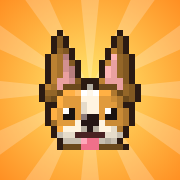
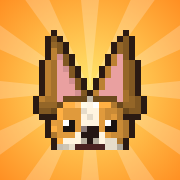
Four new enterable buildings, bolder breed differences and sizes, treat counters
- Pup Shop, Bark & Bean Cafe, Hall of Fame, Ranger's Cabin with NPCs and interactions
- Per-breed world size, exaggerated breed-accurate ears, head width, bulk, short legs, long coats
- Treat count on the home screen and beside the Dogdex button

Claude-Session: https://claude.ai/code/session_01UC9ARqZmDqxh1ms8ocxWV2

Changed region(s): [[0.1667, 0.1667, 0.8333, 0.8333]]

diff --git a/index.html b/index.html
@@ -207,7 +207,10 @@ BR.push(
 {id:'papillon',n:'Papillon',sz:0,c:'#f8f4ee',s:'#8a4a22',ec:'#8a4a22',e:'bat',t:'fluff',p:'eyepatch',f:1,z:['lawn'],h:'M',r:2,d:'Butterfly ears. Flutters when excited.'},
 {id:'mastiff',n:'Tibetan Mastiff',sz:2,c:'#3a2218',s:'#a8622a',e:'flop',t:'curl',p:'tan',f:1,z:['woods'],h:'D',r:3,d:'A lion in a dog suit. Seen deep in the woods by day.'});
 BR.push({id:'bulldog',n:'Bulldog',sz:1,c:'#f4ece0',s:'#c8843a',ec:'#c8843a',m:'#f4ece0',e:'fold',t:'stub',p:'eyepatch',flat:1,z:['lawn'],h:'D',r:1,d:'Naps hard. Snores harder.'});
-const ES={corgi:2,shep:2,kelpie:2,shiba:0,pom:0,samo:0,akita:0,westie:0,basset:2,cocker:2,cav:2,afghan:2,weim:2,vizsla:2,rott:0,newf:0,mastiff:0,sheep:0,pug:0,jack:0,staffy:0,grey:0,whippet:0,wolf:0,bulldog:0,husky:1,dingo:1};
+const ES={corgi:3,shep:3,kelpie:2,heeler:2,dingo:2,husky:1,westie:1,bullt:1,shiba:0,pom:0,samo:0,akita:0,basset:3,cocker:3,afghan:3,cav:2,poodle:2,beagle:2,dachs:1,cavoodle:1,maltese:1,vizsla:2,weim:2,rott:0,newf:0,mastiff:0,sheep:0,pug:0,jack:0,staffy:0,grey:0,whippet:0,wolf:0,bulldog:0,papillon:3,chi:2,french:2,dane:0};
+const HW={pug:1,french:1,bulldog:1,staffy:1,rott:1,mastiff:1,boxer:1,bernard:1,newf:1,grey:-1,whippet:-1,collie:-1,afghan:-1,dobe:-1,bullt:-1,vizsla:-1,weim:-1},BULK=new Set('bulldog pug rott mastiff bernard newf staffy french bern'.split(' ')),SHORT=new Set('corgi dachs basset bulldog pug french westie'.split(' ')),COAT=new Set('afghan maltese'.split(' '));
+const BS={chi:.72,pom:.78,papillon:.78,maltese:.82,dachs:.86,pug:.88,westie:.88,cav:.9,cavoodle:.9,jack:.9,french:.9,corgi:.95,lab:1.05,golden:1.05,boxer:1.05,dalm:1.05,husky:1.05,samo:1.05,shep:1.12,dobe:1.12,akita:1.12,grey:1.12,afghan:1.12,weim:1.1,sheep:1.1,rott:1.15,bern:1.2,newf:1.25,bernard:1.3,mastiff:1.3,dane:1.38,wolf:1.38};
+const bid=b=>b.id.replace('~','');
 const TP={},TPN={feisty:'Feisty',fast:'Speedy',sleepy:'Sleepy',friendly:'Friendly',shy:'Shy',calm:'Calm'};
 [['feisty','chi jack pom dachs westie papillon schnauzer'],['fast','kelpie collie grey whippet heeler aussie vizsla husky dalm weim'],['sleepy','bulldog french pug basset bernard newf dane mastiff sheep'],['friendly','lab golden cavoodle staffy cav cocker beagle boxer corgi mutt samo bern bullt'],['shy','shiba afghan dingo wolf akita']].forEach(([t,l])=>l.split(' ').forEach(id=>TP[id]=t));
 const TQ={feisty:{v:1.6,p0:.15,p1:.4,pc:.15},fast:{v:1.9,p0:.2,p1:.5,pc:.25},sleepy:{v:.5,p0:1.5,p1:2.6,pc:.6},friendly:{v:.9,p0:.8,p1:1.4,pc:.5},shy:{v:1.15,p0:.2,p1:.5,pc:.1,edge:1},calm:{v:1,p0:.35,p1:1,pc:.3}};
@@ -290,7 +293,7 @@ function hatSide(x,id,cx,T,hr){
 function dogFront(b,fr,o,happy){ // fr 0/1 tail wag, 2 blink
  const key=b.id+'F'+fr+(happy?1:0)+okey(o);if(SC[key])return SC[key];
  const c=mk(FW,FH),sz=b.sz,{B,S2,E,M,P,IN,SEP}=dogCols(b),cx=16,base=42,wag=fr===1?1:0,blink=fr===2,joy=fr===3,seed=hash(b.id);if(joy)happy=true;
- const rx=[6,7,8][sz],ry=[5,6,7][sz],brx=[5,6,7][sz]-(b.slim?1:0),bh=[10,13,16][sz]+(b.tall?3:0),top=base-bh,hy=top-ry+3,T=hy-ry,L=cx-rx;
+ const ID=bid(b),rx=[6,7,8][sz]+(HW[ID]||0),ry=[5,6,7][sz],brx=[5,6,7][sz]-(b.slim?1:0)+(BULK.has(ID)?1:0),bh=Math.max(8,[10,13,16][sz]+(b.tall?3:0)-(SHORT.has(ID)?2:0)),top=base-bh,hy=top-ry+3,T=hy-ry,L=cx-rx;
  const part=()=>mk(FW,FH);let p,x;
  // tail
  p=part();x=p.x;const tx=cx+brx,ty=base-5,TC=B;
@@ -315,6 +318,7 @@ function dogFront(b,fr,o,happy){ // fr 0/1 tail wag, 2 blink
  px(x,cx-lw,base-lh,lw,lh,LC);px(x,cx+1,base-lh,lw,lh,LC);px(x,cx-lw-1,base-2,lw+1,2,P);px(x,cx+1,base-2,lw+1,2,P);
  if(b.p==='tan')atop(p,x=>px(x,cx-lw-1,base-4,lw*2+3,4,S2));
  shadeC(p);px(x,cx-(lw>>1)-1,base-1,1,1,SEP);px(x,cx+1+(lw>>1),base-1,1,1,SEP);comp(c,p,SEP);
+ if(COAT.has(ID)){p=part();x=p.x;px(x,cx-brx-1,base-lh-1,brx*2+3,lh+1,B);for(let i=0;i<brx*2+3;i+=2)px(x,cx-brx-1+i,base-lh+1,1,lh-1,'rgba(0,0,0,.12)');fuzz(p,seed+9,.4);shadeC(p);comp(c,p,SEP)}
  // collar / neckwear
  x=c.x;const yc=hy+ry+1,nk=o&&o.neck,cl=cx-brx+2,cw=brx*2-3;
  if(nk==='bandana'||nk==='bandanab'){const K2=NECKC[nk];px(x,cl-1,yc,cw+2,2,K2);for(let i=0;i<4;i++)px(x,cx-3+i,yc+2+i,7-2*i,1,i===3?shade(K2,.75):K2);px(x,cx-1,yc+2,1,1,'#fff');px(x,cx+1,yc+3,1,1,'#fff');px(x,cl-1,yc,cw+2,1,shade(K2,1.25))}
@@ -324,11 +328,11 @@ function dogFront(b,fr,o,happy){ // fr 0/1 tail wag, 2 blink
  // ears
  const earL=(x,t)=>{
   const es=earSz(b);
-  if(t==='point'){const ph=[3,5,8][es];tri(x,L+1,T-ph,L-1,L+3+es,T+2,E);tri(x,L+2,T-ph+3,L+1,L+2+es,T+2,IN)}
-  else if(t==='bat'){tri(x,L,T-8,L-2,L+5,T+2,E);px(x,L-2,T-2,2,4,E);tri(x,L+1,T-5,L,L+4,T+2,IN)}
+  if(t==='point'){const ph=[3,5,8,10][es],ol=es>2?2:1;tri(x,L+1-(es>2?1:0),T-ph,L-ol,L+3+es,T+2,E);tri(x,L+2-(es>2?1:0),T-ph+3,L+1,L+2+es,T+2,IN)}
+  else if(t==='bat'){if(es>2){tri(x,L-1,T-9,L-5,L+5,T+3,E);px(x,L-5,T-1,3,5,E);tri(x,L,T-6,L-3,L+4,T+3,IN);px(x,L-5,T+3,2,2,E);px(x,L-6,T+1,1,3,shade(E,.8))}else{tri(x,L,T-8,L-2,L+5,T+2,E);px(x,L-2,T-2,2,4,E);tri(x,L+1,T-5,L,L+4,T+2,IN)}}
   else if(t==='fold'){if(es===0){px(x,L,T-1,4,3,E);px(x,L-1,T+1,4,1,shade(E,.8));px(x,L-1,T+2,2,1,shade(E,.8))}else{px(x,L,T-2,5,4,E);px(x,L-1,T-1,2,3,E);px(x,L-1,T+2,5,1,shade(E,.8));px(x,L-1,T+3,4,1,shade(E,.8));px(x,L-1,T+4,2,1,shade(E,.8))}}
-  else if(t==='flop'){px(x,L-1,T+1,4,3,E);ell(x,L-1,hy+es,es===2?3:2,ry-2+es*2,E)}
-  else if(t==='long'){px(x,L-2,T+1,5,3,E);ell(x,L-2,hy+3+es,es===2?3:2,ry+1+es*2,E);if(b.t==='pom')ell(x,L-2,hy+ry+4,3,3,E)}
+  else if(t==='flop'){px(x,L-1,T+1,4,3,E);ell(x,L-1,hy+es,es>=2?3:2,ry-2+es*2,E)}
+  else if(t==='long'){px(x,L-2,T+1,5,3,E);ell(x,L-2-(es>2?1:0),hy+3+es,es>=2?3:2,ry+1+es*2,E);if(es>2)px(x,L-4,hy+ry+5,5,2,shade(E,.85));if(b.t==='pom')ell(x,L-2,hy+ry+4,3,3,E)}
   else if(t==='crop'){tri(x,L+2,T-8,L+1,L+4,T+2,E);px(x,L+2,T-4,1,5,IN)}};
  const isF=t=>t==='flop'||t==='long',tl=b.e==='mix'?'point':b.e,trr=b.e==='mix'?'fold':b.e;
  const ears=front=>{const q=part();let any=false;
@@ -366,9 +370,9 @@ const GAIT={nf:[[0,0],[2,0],[0,0],[-2,0],[0,1]],ff:[[0,0],[-2,0],[0,1],[2,0],[0,
 function dogSide(b,fr,o,tongue){ // fr 0 stand, 1-4 walk cycle
  const key=b.id+'S'+fr+(tongue?1:0)+okey(o);if(SC[key])return SC[key];
  const c=mk(SW,SH),sz=b.sz,{B,S2,D,E,M,P,IN,SEP}=dogCols(b),base=38,bob=(fr===2||fr===4)?1:0,wag=fr&1,seed=hash(b.id);
- const L=[13,16,19][sz]+(b.long?5:0),h=[5,7,8][sz]-(b.slim?1:0),lg=(b.long?2:[3,5,7][sz])+(b.slim?1:0)+(b.tall?2:0),lw=2;
+ const ID=bid(b),L=[13,16,19][sz]+(b.long?5:0),h=[5,7,8][sz]-(b.slim?1:0)+(BULK.has(ID)?1:0),lg=Math.max(2,(b.long?2:[3,5,7][sz])+(b.slim?1:0)+(b.tall?2:0)-(SHORT.has(ID)&&!b.long?1:0)),lw=2;
  const bx=10,by=base-lg-h-bob,rr=[3,4,4][sz],cr=[3,4,5][sz],ryR=h>>1,ryC=(h>>1)+1;
- const hr=[4,5,5][sz],hry=[3,4,4][sz],hcx=bx+L+(sz?2:1),hcy=by-(sz?3:2)-(b.tall?1:0)-(b.slim?1:0),T=hcy-hry,sl=b.flat?2:[3,4,5][sz];
+ const hr=[4,5,5][sz],hry=[3,4,4][sz],hcx=bx+L+(sz?2:1),hcy=by-(sz?3:2)-(b.tall?1:0)-(b.slim?1:0),T=hcy-hry,sl=(b.flat?2:[3,4,5][sz])+((HW[ID]||0)<0?1:0);
  const part=()=>mk(SW,SH);let p,x;
  // tail
  p=part();x=p.x;const TC=B;
@@ -395,6 +399,7 @@ function dogSide(b,fr,o,tongue){ // fr 0 stand, 1-4 walk cycle
  p=part();x=p.x;hleg(x,hx,GAIT.nb,LC,P,1);fleg(x,fx,GAIT.nf,LC,P,1);
  if(b.p==='tan')atop(p,x=>px(x,0,base-Math.max(2,lg>>1),SW,lg,S2));
  shadeC(p);comp(c,p,SEP);
+ if(COAT.has(ID)){p=part();x=p.x;px(x,bx+1,by+h-2,L-2,lg+1,B);for(let i=0;i<L-2;i+=2)px(x,bx+1+i,by+h,1,lg-1,'rgba(0,0,0,.12)');fuzz(p,seed+9,.4);shadeC(p);comp(c,p,SEP)}
  // neck + head
  p=part();x=p.x;const n0x=bx+L-cr-2,n0y=by+2,nn=Math.max(1,n0y-hcy);
  for(let i=0;i<=nn;i++){const t=i/nn;px(x,Math.round(lerp(n0x,hcx-hr+1,t)),n0y-i,Math.round(lerp(cr+3,hr+2,t)),1,B)}
@@ -413,10 +418,10 @@ function dogSide(b,fr,o,tongue){ // fr 0 stand, 1-4 walk cycle
  comp(c,p,SEP);
  // ear
  p=part();x=p.x;const e=b.e==='mix'?'point':b.e,fl=bob,ex=hcx-hr,es=earSz(b);
- if(e==='flop'){px(x,ex,T+1,4,2,E);ell(x,ex+1,hcy+1+es-fl,2,Math.max(2,hry-1+es+(sz?1:0)),E)}
- else if(e==='long'){px(x,ex,T+1,4,2,E);ell(x,ex+1,hcy+2+es-fl,es===2?3:2,hry+es*2,E);if(b.t==='pom')ell(x,ex+1,hcy+hry+4-fl,3,3,E)}
- else if(e==='point'){tri(x,hcx-2,T-[2,4,7][es],ex,hcx-1,T+1,E);px(x,hcx-2,T-1,1,2,IN)}
- else if(e==='bat'){tri(x,hcx-3,T-6,ex-1,hcx-1,T+1,E);tri(x,hcx-3,T-3,hcx-3,hcx-2,T+1,IN)}
+ if(e==='flop'){px(x,ex,T+1,4,2,E);ell(x,ex+1,hcy+1+es-fl,es>=2?3:2,Math.max(2,hry-1+es+(sz?1:0)),E)}
+ else if(e==='long'){px(x,ex,T+1,4,2,E);ell(x,ex+1,hcy+2+es-fl,es>=2?3:2,hry+es*2,E);if(b.t==='pom')ell(x,ex+1,hcy+hry+4-fl,3,3,E)}
+ else if(e==='point'){tri(x,hcx-2,T-[2,4,7,9][es],ex-(es>2?1:0),hcx-1+(es>2?1:0),T+1,E);px(x,hcx-2,T-1,1,2,IN)}
+ else if(e==='bat'){tri(x,hcx-3,T-(es>2?9:6),ex-1-(es>2?2:0),hcx-1,T+1,E);tri(x,hcx-3,T-3,hcx-3,hcx-2,T+1,IN)}
  else if(e==='fold'){px(x,ex,T-1,4,3,E);px(x,ex+2,T+2,3,1,shade(E,.8));px(x,ex+3,T+3,2,1,shade(E,.8))}
  else if(e==='crop'){tri(x,hcx-2,T-6,hcx-3,hcx-1,T+1,E)}
  if(b.f)fuzz(p,seed+3,.3);shadeC(p);comp(c,p,SEP);
@@ -480,7 +485,7 @@ function playerSpr(dir,fr){ // dir 0 down 1 up 2 side(right); fr 0 stand 1/2 ste
 /* ================= world ================= */
 const map=new Uint8Array(MW*MH),solid=new Uint8Array(MW*MH),reach=new Uint8Array(MW*MH),fence=new Uint8Array(MW*MH);
 const objs=[],lamps=[],decor=[],reachList=[];let ground;
-const BASE=['#4aa63c','#e6b64c','#3e9fd8','#d8c8a2','#3c8c38','#58b446','#b9803e'],HOUSE={x:1000,y:736},beds=[];
+const BASE=['#4aa63c','#e6b64c','#3e9fd8','#d8c8a2','#3c8c38','#58b446','#b9803e'],HOUSE={x:1000,y:736},beds=[],BLD=[{id:'kennel',k:'house',tx:60,ty:42},{id:'shop',k:'shop',tx:30,ty:42},{id:'cafe',k:'cafe',tx:62,ty:19},{id:'hall',k:'hall',tx:34,ty:67},{id:'cabin',k:'cabin',tx:30,ty:19}];
 const I=(x,y)=>y*MW+x;
 function zoneAt(tx,ty){return tx<38&&ty<38?'woods':tx>=56&&ty<40?'pond':tx>=56&&ty>=56?'sand':tx<40&&ty>=56?'meadow':'lawn'}
 const SPR={};
@@ -530,6 +535,12 @@ function mkSprites(){
  px(x,37,50,15,30,'#5e3618');px(x,38,51,13,29,'#8a5a2a');px(x,40,54,9,8,'#9ad8ff');px(x,44,54,1,8,'#5e3618');px(x,48,66,2,2,'#f4d03f');
  for(const wx of[14,60]){px(x,wx-1,49,16,15,'#f4ead8');px(x,wx,50,14,13,'#9ad8ff');px(x,wx+6,50,2,13,'#f4ead8');px(x,wx,56,14,1,'#f4ead8');px(x,wx-2,64,18,2,'#b9753a');px(x,wx,65,3,3,'#e84a6a');px(x,wx+6,65,3,3,'#f2c230');px(x,wx+11,65,3,3,'#e86aa8')}
  px(x,35,41,19,8,'#f4ead8');px(x,43,45,4,3,'#8a5a2a');px(x,42,43,2,2,'#8a5a2a');px(x,45,42,2,2,'#8a5a2a');px(x,48,43,2,2,'#8a5a2a');SPR.house=outline(c);
+ {const recol=(map,icon)=>{const c=mk(88,85),x=c.x;x.drawImage(SPR.house,0,0);const im=x.getImageData(0,0,88,85),a=im.data;for(let i=0;i<a.length;i+=4){if(!a[i+3])continue;const m=map['#'+((1<<24)|(a[i]<<16)|(a[i+1]<<8)|a[i+2]).toString(16).slice(1)];if(m){const n=parseInt(m.slice(1),16);a[i]=n>>16;a[i+1]=n>>8&255;a[i+2]=n&255}}x.putImageData(im,0,0);px(x,36,42,17,6,'#f4ead8');icon(x);return c};
+ const R=(a,b,c2,d,e,w1,w2)=>({'#c8442a':a,'#8a2a1a':b,'#a83622':c2,'#e8684a':d,'#7a2a18':e,'#d9a25a':w1,'#b9803e':w2});
+ SPR.shop=recol(R('#3a6fd8','#1f3f8a','#2a56b0','#6a9af0','#1a3270','#f0e2c0','#d4c096'),x=>{px(x,41,44,7,2,'#b9753a');px(x,40,43,2,4,'#b9753a');px(x,47,43,2,4,'#b9753a')});
+ SPR.cafe=recol(R('#2a9a8a','#1a6a5e','#22806f','#5ac8b4','#145248','#f6d8de','#e2b4c0'),x=>{px(x,41,44,6,4,'#8a5a2a');px(x,47,45,2,2,'#8a5a2a');px(x,42,43,4,1,'#b9753a')});
+ SPR.hall=recol(R('#8a4fd8','#5a2a9a','#6f3cba','#b08af0','#44207a','#d4d8e0','#aab0bc'),x=>{px(x,44,42,1,6,'#e8a818');px(x,41,44,7,2,'#e8a818');px(x,42,43,5,4,'#f4c020')});
+ SPR.cabin=recol(R('#2f7d32','#1a4f1e','#256a2a','#5cbc48','#143c18','#8a5a2a','#5e3618'),x=>{tri(x,44,42,41,47,46,'#2f7d32');px(x,44,47,1,1,'#7a4a24')})}
  c=mk(14,12);x=c.x;ell(x,7,7,5,3,'#7a4a24');ell(x,7,5,5,2,'#d9a868');ell(x,7,5,2,1,'#b9803e');SPR.stump=outline(c);
  c=mk(34,40);x=c.x;px(x,16,14,2,24,'#f4f4f4');ell(x,17,11,15,9,'#e84a4a');x.clearRect(0,13,34,10);px(x,16,14,2,24,'#f4f4f4');for(let i=0;i<34;i+=8)for(let j=0;j<12;j++){const a=x.getImageData(i+2,j,1,1).data;if(a[3]){}}px(x,7,3,4,10,'#fff4f0');px(x,15,2,4,11,'#fff4f0');px(x,23,3,4,10,'#fff4f0');px(x,16,0,2,2,'#f2c230');SPR.umbrella=outline(c);
  c=mk(34,22);x=c.x;px(x,4,3,26,6,'#d99a52');px(x,4,3,26,1,'#f0c07a');px(x,6,9,2,10,'#7a4a24');px(x,26,9,2,10,'#7a4a24');px(x,0,13,34,3,'#b9753a');px(x,0,13,34,1,'#d99a52');px(x,2,16,2,5,'#7a4a24');px(x,30,16,2,5,'#7a4a24');SPR.table=outline(c);
@@ -547,7 +558,7 @@ function mkSprites(){
  SPR.iHearts=pm(['.rr.rr...','rRrrrr...','rrrrrr...','.rrrr.pp.p','..rr.pPppp','.....pppp','......pp.'].map(r=>r.padEnd(10,'.')),{r:'#e84a6a',R:'#ffb0c0',p:'#ff8ab0',P:'#ffd0e0'});
  SPR.iHat=pm(['..kkkkk..','..kKkkk..','..kKkkk..','..rrrrr..','kkkkkkkkk'],{k:'#2a2a32',K:'#5a5a66',r:'#d83a3a'});
  SPR.iBook=pm(['rrrrrrrr.','rRRRRRRrw','rRRppRRrw','rRpRRpRrw','rRRppRRrw','rRRRRRRrw','rrrrrrrrw','.wwwwwwww'],{r:'#b83a3a',R:'#e05a4a',p:'#fff4d8',w:'#f4ead8'});
- ['bench','lamp','rock','bush','table','sign','bin','stump','tunnel','house','hurdle','fountain'].forEach(k=>inSh(SPR[k]));
+ ['bench','lamp','rock','bush','table','sign','bin','stump','tunnel','house','shop','cafe','hall','cabin','hurdle','fountain'].forEach(k=>inSh(SPR[k]));
  c=mk(30,34);x=c.x;disc(x,7,29,3,'#3a3a44');disc(x,22,29,3,'#3a3a44');px(x,7,29,1,1,'#b4bac4');px(x,22,29,1,1,'#b4bac4');px(x,3,16,24,11,'#f8f4ec');px(x,3,22,24,2,'#f08ab8');px(x,3,25,24,2,'#d8d2c4');px(x,3,10,1,6,'#8a8f98');px(x,26,10,1,6,'#8a8f98');
  for(let i=0;i<7;i++)px(x,1+i*4,4,4,6,i%2?'#fff4f0':'#e84a4a');px(x,1,9,28,1,'#b83a3a');tri(x,14,13,12,16,17,'#e8c05a');disc(x,14,12,2,'#ffb4d4');SPR.cart=inSh(outline(c));
  c=mk(38,28);x=c.x;tri(x,19,2,2,36,26,'#e8843a');tri(x,19,2,2,19,26,'#f0a05a');tri(x,19,10,14,24,26,'#4a2208');px(x,18,2,2,4,'#7a4a24');px(x,2,26,35,1,'#b85a1a');SPR.tent=outline(c);
@@ -576,9 +587,7 @@ function genWorld(){
  [[23,23],[74,23],[23,74],[74,74],[41,41],[54,41],[41,54],[54,54]].forEach(([x,y])=>{put('lamp',x,y);lamps.push([x*16+8,y*16-12])});
  [[44,39],[50,39],[44,56],[50,56],[66,23],[60,27],[30,70],[20,74]].forEach(([x,y])=>put('bench',x,y,0,2));
  [[22,66],[27,66],[32,66],[27,62]].forEach(([x,y])=>put('hurdle',x,y,0,2));
- for(let y=42;y<=45;y++)for(let x=60;x<=64;x++){solid[I(x,y)]=1;occ[I(x,y)]=1}
- for(let y=39;y<=41;y++)for(let x=59;x<=65;x++)occ[I(x,y)]=1;
- rect(61,46,63,46,1);objs.push({k:'house',x:HOUSE.x,y:HOUSE.y-1});
+ for(const b of BLD){for(let y=b.ty;y<b.ty+4;y++)for(let x=b.tx;x<b.tx+5;x++){solid[I(x,y)]=1;occ[I(x,y)]=1}for(let y=b.ty-3;y<b.ty;y++)for(let x=b.tx-1;x<b.tx+6;x++)occ[I(x,y)]=1;rect(b.tx+1,b.ty+4,b.tx+3,b.ty+4,1);for(let x=b.tx-1;x<b.tx+6;x++)occ[I(x,b.ty+4)]=1;b.x=(b.tx+2)*16+8;b.y=(b.ty+4)*16;objs.push({k:b.k,x:b.x,y:b.y-1})}
  rect(73,24,79,25,1);for(let y=12;y<=23;y++)for(let x=78;x<=79;x++)map[I(x,y)]=map[I(x,y)]===2?6:1;
  [[37,40],[56,40],[56,54],[37,54]].forEach(([x,y])=>{for(let j=0;j<2;j++)for(let i=0;i<3;i++){solid[I(x+i,y+j)]=1;occ[I(x+i,y+j)]=1}beds.push([x,y])});
  [[49,23],[49,74],[23,49],[74,49]].forEach(([x,y])=>put('sign',x,y));
@@ -718,7 +727,7 @@ const stars=n=>'★'.repeat(n)+'☆'.repeat(3-n);
 const hearts=d=>{const n=Math.min(5,(d.bond||0)/2|0);return'♥'.repeat(n)+'<span style="color:#d9b98a">'+'♥'.repeat(5-n)+'</span>'};
 const TD=[];
 function titleInit(){TD.length=0;const ids=Object.keys(S.dogs);for(let i=0;i<5;i++){const id=ids[i]||pick(BR).id;TD.push({b:S.dogs[id]?BV(id):BY[id],o:S.dogs[id]||null,x:i*97+R()*30,v:30+i*7,l:i})}
- $('#tsub').textContent=S.started?`${S.player.name?'Welcome back, '+S.player.name+'! · ':''}Dogdex ${count()}/${BR.length}`:''}
+ $('#tsub').textContent=S.started?`${S.player.name?'Welcome back, '+S.player.name+'! · ':''}Dogdex ${count()}/${BR.length} · ${S.treats} treats`:''}
 function drawTitle(){drawScene(0,1);const gy=gY(),sp=(vh-gy-22)/3;for(const d of TD){if(d.l>3)continue;const X=((d.x+G.time*d.v)%(vw+110))-55,Y=gy+16+(d.l%4)*sp*.9;shadow(X,Y,9);spr(dogSide(d.b,1+((G.time*d.v/5|0)%4),d.o,1),X,Y,1.25)}}
 $('#playB').addEventListener('click',()=>{audioInit();sfx.jingle();G.fromTitle=false;setState('world');if(!S.started)charEdit();else{const gf=dayCheck();if(gf)questPanel(gf)}});
 $('#charB').addEventListener('click',()=>{audioInit();sfx.blip();G.fromTitle=true;charEdit()});
@@ -740,7 +749,7 @@ function settings(){openPanel(`<button class="xb" data-a="menu" aria-label="Clos
  <div class="two"><button class="btn alt" data-a="music">Music: ${S.music?'on':'off'}</button><button class="btn alt" data-a="sound">Sounds: ${S.sound?'on':'off'}</button></div>
  <button class="btn alt" data-a="how">How to play</button>
  <button class="btn lock sm" data-a="reset" data-v="0">Erase save</button>`)}
-function how(){openPanel(`<h2>How to play</h2><p style="text-align:left">• Drag anywhere to walk (or arrow keys).<br>• Walk into the red-roofed cottage by the plaza to visit your pups. Tap any dog of yours to pat, praise or play.<br>• Level your dogs up with pats, treats and games to unlock tricks. Your buddy digs up treasure as you walk and gives you a perk.<br>• Check Daily quests in the clock menu, and spend treats on outfits and kennel decorations.<br>• Progress saves automatically on this device.<br>• Walk up to a dog and tap it, or tap the camera button.<br>• In camera mode, tap when the dog is inside the frame. Dead centre = 3 stars. You get 3 shots.<br>• Different dogs hang out in different parts of the park, and at different real-world times: morning, daytime, evening and night.<br>• Tap the book (top left) for your Dogdex and the clock (top right) for settings. Dress your dogs up, play mini games to earn treats, and pick a buddy to walk with you.</p><button class="btn" data-a="settings">Back</button>`)}
+function how(){openPanel(`<h2>How to play</h2><p style="text-align:left">• Drag anywhere to walk (or arrow keys).<br>• Walk into buildings: your kennel (red roof), the Pup Shop (blue), the café (teal, by the pond), the Hall of Fame (purple, south) and the Ranger's Cabin (green, in the woods).<br>• In your kennel, Tap any dog of yours to pat, praise or play.<br>• Level your dogs up with pats, treats and games to unlock tricks. Your buddy digs up treasure as you walk and gives you a perk.<br>• Check Daily quests in the clock menu, and spend treats on outfits and kennel decorations.<br>• Progress saves automatically on this device.<br>• Walk up to a dog and tap it, or tap the camera button.<br>• In camera mode, tap when the dog is inside the frame. Dead centre = 3 stars. You get 3 shots.<br>• Different dogs hang out in different parts of the park, and at different real-world times: morning, daytime, evening and night.<br>• Tap the book (top left) for your Dogdex and the clock (top right) for settings. Dress your dogs up, play mini games to earn treats, and pick a buddy to walk with you.</p><button class="btn" data-a="settings">Back</button>`)}
 function dex(){let h=`<h2>Dogdex ${count()}/${BR.length}</h2><div class="grid">`;
  for(const b of BR){const d=S.dogs[b.id];
   h+=d?`<button class="cell" style="border-color:${RAR[b.r][1]}" data-a="dog" data-v="${b.id}">${im(dogFront(BV(b.id),0,d,true),2)}<br>${d.shiny?'✦ ':''}${esc(d.name)}<i>${b.n}</i></button>`
@@ -776,6 +785,8 @@ const ACT={
  dbuy(v){const[cat,id]=v.split(':'),hs=S.home,own=S.hown,key=cat==='it'?id:cat+id,cost=cat==='it'?DECO.it.find(i=>i[0]===id)[2]:DECO[cat][+id][1];let bought=false;
   if(cost&&!own.includes(key)){if(S.treats<cost){sfx.buzz();toast(`You need ${cost-S.treats} more treats.`);return}S.treats-=cost;own.push(key);bought=true;sfx.coin()}
   if(cat==='it'){const i=hs.it.indexOf(id);if(i<0)hs.it.push(id);else if(!bought)hs.it.splice(i,1)}else hs[cat]=+id;buildHome();save();deco()},
+ sbuy(v){const o=OUTFITS.find(q=>q.id===v);if(S.owned.includes(v))return;if(S.treats<o.cost){sfx.buzz();toast(`You need ${o.cost-S.treats} more treats.`);return}S.treats-=o.cost;S.owned.push(v);save();sfx.coin();shopPanel()},
+ pupround(){const ids=Object.keys(S.dogs);if(!ids.length){toast('You have no dogs yet!');return}if(S.treats<25){sfx.buzz();toast(`You need ${25-S.treats} more treats.`);return}S.treats-=25;ids.forEach(id=>addBond(id,1));sfx.jingle();closePanel();toast('Slurp! Every dog gained 1 bond.',2600)},
  menu,settings,close:closePanel,dex,how,hint,dog:dogPage,dress,playm:playMenu,char:charEdit,
  chardone(){PS={};const first=!S.started,pn=$('#pn');if(pn)S.player.name=pn.value.trim().slice(0,12);if(G.fromTitle){G.fromTitle=false;if(S.started)save();closePanel();titleInit();return}S.started=true;save();dayCheck();closePanel();setState('world');if(first)toast('Drag anywhere to walk. Go find a dog!',4500)},
  cyc(v){const[k,d]=v.split(':'),n=CY.find(c=>c[0]===k)[2];S.player[k]=(S.player[k]+ +d+n)%n;save();charEdit()},
@@ -805,12 +816,67 @@ petEl.addEventListener('click',ev=>{const t=ev.target.closest('[data-p]');if(!t|
  else if(k==='play'){closePet();playMenu(id)}else if(k==='dress'){closePet();dress(id)}});
 let ACTI=['',''];
 function setNear(n,pt){if(n===G.near&&pt===G.nearPet)return;G.near=n;G.nearPet=pt;actB.classList.toggle('on',!!(n||pt));actB.innerHTML=ACTI[n?0:1]}
-actB.addEventListener('click',()=>{audioInit();if(G.state!=='world'||G.paused)return;if(G.near)startEncounter(G.near);else if(G.nearPet)openPet(G.nearPet,G.nearPet.id)});
+actB.addEventListener('click',()=>{audioInit();if(G.state!=='world'||G.paused)return;if(G.near)startEncounter(G.near);else if(G.nearPet){if(G.nearPet.act){sfx.blip();G.nearPet.act()}else openPet(G.nearPet,G.nearPet.id)}});
 const whose=()=>S.player.name?S.player.name+"'s":'Your';
 function digDone(){const id=S.buddy,d=S.dogs[id];if(!d)return;const r=R();let msg;const un=OUTFITS.filter(o=>!S.owned.includes(o.id)&&o.cost<=60);
  if(r<.1&&un.length){const o=pick(un);S.owned.push(o.id);msg=`a ${o.n}! (new outfit)`;sfx.jingle()}else{const n=r<.28?25+(R()*20|0):5+(R()*11|0);S.treats+=n;msg=`${n} treats!`;sfx.coin()}
  emote(BUD,r<.1?'iSpark':'bone');BUD.st='sit';FP.push({x:BUD.x+BUD.dir*8,y:BUD.y,t:25,l:25,k:9});toast(`${d.name} dug up ${msg}`,2800);S.digs=(S.digs||0)+1;save();Q('dig')}
-function enterHome(){G.ret=[HOUSE.x,HOUSE.y+12];G.scene='home';closePet();keysClear();P.vx=P.vy=0;const W=HOME.w*16,H=HOME.h*16;P.x=W/2;P.y=H-14;P.dir=1;
+function npcSpr(app){const sp=S.player,ps=PS;S.player=app;PS={};const c=playerSpr(0,0);S.player=sp;PS=ps;return c}
+function roomBase(w,h,F,WL,wins){const W=w*16,H=h*16,c=mk(W,H),x=c.x;
+ for(let ty=0;ty<h;ty++)for(let tx=0;tx<w;tx++){const X=tx*16,Y=ty*16;px(x,X,Y,16,16,(tx+ty)%2?F[0]:F[1]);px(x,X,Y+15,16,1,F[2]);px(x,X+((ty%2)*8+3),Y,1,15,F[3])}
+ px(x,0,0,W,30,WL[0]);for(let i=0;i<W;i+=12)px(x,i,0,1,22,WL[1]);px(x,0,22,W,8,WL[2]);px(x,0,30,W,3,'#7a4a24');px(x,0,33,W,3,'rgba(0,0,0,.16)');
+ for(const wx of wins){px(x,wx-1,3,34,18,'#7a4a24');px(x,wx,4,32,16,'#9ad8ff');px(x,wx+15,4,2,16,'#f4ead8');px(x,wx,11,32,2,'#f4ead8');px(x,wx+2,6,5,2,'#fff')}
+ px(x,W/2-13,H-14,26,9,'#8a6a3a');px(x,W/2-11,H-12,22,5,'#a8864a');px(x,0,H-4,W,4,'#5e3618');px(x,W/2-10,H-4,20,4,'#2a1a10');px(x,0,0,3,H,'#7a4a24');px(x,W-3,0,3,H,'#7a4a24');return c}
+const tableAt=(x,X,Y)=>{ell(x,X,Y+9,9,3,'rgba(0,0,0,.18)');px(x,X-1,Y,2,9,'#7a4a24');ell(x,X,Y-1,10,5,'#b9753a');ell(x,X,Y-2,10,5,'#e8c08a');px(x,X-3,Y-4,3,3,'#fff');px(x,X+2,Y-3,3,2,'#f08ab8')};
+const ROOMS={
+ shop:{name:'Pup Shop',w:14,h:10,win:[16],build(){const W=224,c=roomBase(14,10,DECO.floor[2][2],DECO.wall[1][2],[16]),x=c.x;
+  for(let i=0;i<3;i++){const sx=64+i*50;px(x,sx,16,40,2,'#7a4a24');px(x,sx,6,40,2,'#7a4a24');for(let j=0;j<4;j++){px(x,sx+3+j*9,10,6,6,['#e84a6a','#3a6fd8','#f4c020','#3aa655','#8a4fd8','#f08a2a'][(i*4+j)%6]);px(x,sx+4+j*9,1,5,5,['#2a2a32','#a8703a','#e86aa8','#3ac2c2'][(i+j)%4])}}
+  px(x,W-78,62,62,16,'#b9753a');px(x,W-78,62,62,4,'#e8b06a');px(x,W-78,76,62,2,'#7a4a24');px(x,W-34,54,12,9,'#3a3f4a');px(x,W-32,56,8,4,'#9ad8ff');px(x,W-70,56,8,7,'#f8eedc');px(x,W-58,57,6,6,'#e84a6a');
+  for(let i=0;i<2;i++){const rx=14,ry=70+i*34;px(x,rx,ry,34,3,'#8a8f98');px(x,rx+2,ry+3,2,14,'#8a8f98');px(x,rx+30,ry+3,2,14,'#8a8f98');for(let j=0;j<5;j++)tri(x,rx+5+j*6,ry+12,rx+3+j*6,rx+7+j*6,ry+3,['#d83a3a','#3a6fd8','#3aa655','#f2c230','#e86aa8'][(j+i*2)%5])}
+  ell(x,W/2-6,112,34,14,'#2a5aa8');ell(x,W/2-6,112,28,10,'#e8f0f8');x.drawImage(SPR.bone,W/2-11,109);
+  this.ground=c},sol:[[146,56,62,22],[14,68,34,18],[14,102,34,18]],fore:[[146,60,62,18]],
+  get npcs(){return this._n||(this._n=[{npc:true,x:182,y:66,c:npcSpr({skin:2,hair:3,hairC:4,beard:0,shirt:2,pants:1})}])},
+  spots:[{x:182,y:90,h:46,act(){shopPanel()}}]},
+ cafe:{name:'Bark & Bean Café',w:14,h:10,win:[150],build(){const W=224,c=roomBase(14,10,DECO.floor[1][2],DECO.wall[2][2],[150]),x=c.x;
+  px(x,10,60,70,16,'#8a5a34');px(x,10,60,70,4,'#c89a6a');px(x,10,74,70,2,'#5e3618');px(x,14,48,26,12,'#bfe8ff');px(x,14,48,26,2,'#f4f4f4');px(x,17,53,6,5,'#f08ab8');px(x,25,53,6,5,'#f8eedc');px(x,33,54,5,4,'#8a5a2a');px(x,62,50,10,10,'#3a3f4a');px(x,64,52,6,3,'#e84a4a');
+  px(x,14,6,60,12,'#2a2a32');for(let i=0;i<4;i++)px(x,18,8+i*2+ (i>1?1:0),30+((i*13)%20),1,'#f4f4f4');
+  for(const[a,b]of[[130,84],[178,112],[100,124]]){tableAt(x,a,b);for(const d of[-15,15]){px(x,a+d-3,b+2,6,5,'#d83a3a');px(x,a+d-3,b-3,6,5,'#b82a2a')}}
+  px(x,196,44,12,10,'#b5622a');for(const[a,b]of[[202,30],[197,34],[207,34],[202,38]])ell(x,a,b,3,5,'#3aa655');
+  this.ground=c},sol:[[10,54,70,24],[122,80,16,10],[170,108,16,10],[92,120,16,10]],fore:[[10,60,70,18]],
+  get npcs(){return this._n||(this._n=[{npc:true,x:52,y:64,c:npcSpr({skin:0,hair:1,hairC:3,beard:0,shirt:8,pants:2})},{npc:true,x:154,y:92,c:npcSpr({skin:3,hair:0,hairC:0,beard:1,shirt:5,pants:0})},{npc:true,x:76,y:132,c:npcSpr({skin:1,hair:4,hairC:1,beard:0,shirt:3,pants:4})}])},
+  spots:[{x:52,y:90,h:46,act(){cafePanel()}},{x:154,y:92,r:24,act(){say('Regular','Best flat white in the park. My kelpie drags me here every arvo.')}},{x:76,y:132,r:24,act(){say('Dog walker','Heard the night dogs are the rare ones. The woods after 9pm, they reckon.')}}]},
+ hall:{name:'Hall of Fame',w:16,h:10,win:[20,204],build(){const W=256,c=roomBase(16,10,DECO.floor[2][2],DECO.wall[0][2],[20,204]),x=c.x;
+  px(x,W/2-12,34,24,122,'#b83a3a');px(x,W/2-12,34,2,122,'#e8c46a');px(x,W/2+10,34,2,122,'#e8c46a');
+  px(x,74,3,108,19,'#5e3618');px(x,76,5,104,15,'#2a2a32');for(let i=0;i<4;i++)px(x,82,8+i*3,60+((i*17)%30),1,'#f4f4f4');px(x,160,7,14,10,'#f4c020');
+  for(const[a,b,k]of[[40,70,0],[40,112,1],[216,70,2],[216,112,0]]){px(x,a-8,b,16,12,'#c8ced8');px(x,a-9,b-2,18,3,'#e4e8f0');px(x,a-8,b+10,16,2,'#8a909a');px(x,a-3,b-10,6,6,['#f4c020','#c8ccd4','#c8843a'][k]);px(x,a-1,b-4,2,2,'#c89a1a');px(x,a-5,b-9,2,3,['#f4c020','#c8ccd4','#c8843a'][k]);px(x,a+3,b-9,2,3,['#f4c020','#c8ccd4','#c8843a'][k])}
+  px(x,W/2-12,44,24,12,'#8a8f98');px(x,W/2-14,42,28,3,'#b4bac4');x.drawImage(SPR.statue,0,0,26,28,W/2-13,16,26,28);
+  this.ground=c},sol:[[32,68,16,14],[32,110,16,14],[208,68,16,14],[208,110,16,14],[114,36,28,22]],npcs:[],
+  spots:[{x:128,y:68,h:52,act(){ACT.bali()}},{x:92,y:46,r:30,h:44,act(){hallPanel()}}]},
+ cabin:{name:"Ranger's Cabin",w:12,h:9,win:[140],fire:[40,30],build(){const W=192,H=144,c=roomBase(12,9,DECO.floor[1][2],['#8a5a34','#6a4424','#5e3618'],[140]),x=c.x;
+  px(x,22,2,36,30,'#8a8f98');px(x,24,4,32,26,'#6a6f78');px(x,28,10,24,20,'#1a120c');px(x,20,0,40,3,'#b4bac4');for(let i=0;i<6;i++)px(x,24+((i*11)%30),4+((i*7)%8),4,2,'#9aa0aa');px(x,32,27,16,3,'#5e3618');
+  px(x,76,4,40,16,'#e8d8a8');px(x,78,6,36,12,'#d8c890');px(x,84,9,8,5,'#4aa63c');px(x,98,8,10,6,'#3e9fd8');px(x,92,14,3,2,'#d83a3a');
+  px(x,W-50,42,38,22,'#7a4a24');px(x,W-48,44,34,18,'#d83a3a');px(x,W-48,44,34,4,'#f4f4f4');px(x,W-46,45,10,6,'#f8f4ec');for(let i=0;i<5;i++)px(x,W-48+i*7,50,3,12,'#b82a2a');
+  px(x,10,40,14,34,'#5e3618');for(let i=0;i<3;i++){px(x,11,43+i*10,12,7,'#3a2414');for(let j=0;j<4;j++)px(x,12+j*3,44+i*10,2,6,['#d83a3a','#3a6fd8','#3aa655','#f2c230'][(i+j)%4])}
+  ell(x,W/2,H/2+22,30,12,'#8a5a2a');ell(x,W/2,H/2+22,26,9,'#a8703a');ell(x,W/2-22,H/2+16,6,5,'#8a5a2a');
+  px(x,14,H-36,22,14,'#8a5a2a');px(x,14,H-36,22,5,'#a8703a');px(x,14,H-32,22,1,'#3a2414');px(x,23,H-33,4,4,'#f4c020');px(x,13,H-37,24,1,'#5e3618');
+  this.ground=c},sol:[[10,40,14,36],[142,40,38,26],[14,108,22,16]],
+  get npcs(){return this._n||(this._n=[{npc:true,x:70,y:62,c:npcSpr({skin:1,hair:4,hairC:5,beard:1,shirt:2,pants:1})}])},
+  spots:[{x:70,y:62,r:26,act(){rangerPanel()}},{x:25,y:128,r:22,h:30,act(){chestPanel()}}]}};
+function say(who,t){openPanel(`<button class="xb" data-a="close" aria-label="Close">X</button><h2>${who}</h2><p>"${t}"</p>`)}
+function shopPanel(){let h=`<button class="xb" data-a="close" aria-label="Close">X</button><h2>Pup Shop</h2><p>"G'day! Everything a good dog needs."</p><div class="tr">${bone()} ${S.treats} treats</div>`;
+ for(const sl of['hat','neck','eyes']){h+=`<h3>${{hat:'Head',neck:'Neck',eyes:'Eyes'}[sl]}</h3><div class="row">`;for(const o of OUTFITS)if(o.slot===sl){const own=S.owned.includes(o.id);h+=`<button class="btn sm ${own?'on':'lock'}" data-a="sbuy" data-v="${o.id}">${o.n}${own?' ✓':' · '+o.cost}</button>`}h+='</div>'}
+ openPanel(h+`<p style="font-size:11px">Outfits you own can be worn by any of your dogs (tap a dog, then Dress).</p><button class="btn alt" data-a="deco">Kennel furniture</button>`)}
+function cafePanel(){const free=S.cafe!==today();if(free){S.cafe=today();S.treats+=8;save();sfx.coin()}
+ openPanel(`<button class="xb" data-a="close" aria-label="Close">X</button><h2>Bark & Bean Café</h2><p>${free?'"First pupcake of the day is on the house!"<br><b>+8 treats</b>':'"You\'ve had today\'s free pupcake. Come back tomorrow!"'}</p><div class="tr">${bone()} ${S.treats} treats</div><button class="btn" data-a="pupround">Puppuccinos all round · 25<br><small>Every dog you own gains 1 bond</small></button>`)}
+function hallPanel(){const ds=Object.values(S.dogs),b=S.best||{};openPanel(`<button class="xb" data-a="close" aria-label="Close">X</button><h2>Hall of Fame</h2><p style="text-align:left;line-height:1.6">Breeds caught: <b>${count()}/${BR.length}</b><br>Three-star photos: <b>${ds.filter(d=>d.stars===3).length}</b><br>Shiny dogs: <b>${ds.filter(d=>d.shiny).length}</b><br>Highest dog level: <b>${ds.length?Math.max(...ds.map(lvl)):0}</b><br>Treasures dug up: <b>${S.digs||0}</b><br>Login streak: <b>${S.streak||1} day${(S.streak||1)>1?'s':''}</b><br>Blown away by Bali: <b>${S.bali||0}</b><br>Best Treat Catch: <b>${b.catch||0}</b><br>Best Park Dash: <b>${b.hop||0}</b><br>Best Fetch: <b>${b.fetch||0}</b></p>`)}
+function rangerPanel(){const un=BR.filter(b=>!S.dogs[b.id]),b=un.length?pick(un):null;say('Ranger',(b?`Looking for a ${b.n}? I've seen one around ${b.z.map(z=>ZNAME[z]).join(' and ')} in the ${b.h.split('').map(c=>PNAME[c]).join(' or ')}.`:"You've found every breed in the park. Legend!")+' As for Bali… nobody gets near that one. Believe me, I have tried.')}
+function chestPanel(){if(S.chest){say('Old chest','Empty. Just a few biscuit crumbs left.');return}S.chest=1;S.treats+=100;save();sfx.jingle();say('Old chest',"The ranger's secret stash! +100 treats")}
+function enterRoom(id){const b=BLD.find(q=>q.id===id);G.ret=[b.x,b.y+12];G.scene='home';G.room=id;closePet();keysClear();P.vx=P.vy=0;
+ if(id==='kennel'){Object.assign(HOME,{w:18,h:12,ground:HOME.kg,win:[40,216],sol:[],fore:[],npcs:[],spots:[],fire:null});kennelFill()}
+ else{const r=ROOMS[id];if(!r.ground)r.build();Object.assign(HOME,{w:r.w,h:r.h,ground:r.ground,win:r.win,sol:r.sol,fore:r.fore||[],npcs:r.npcs,spots:r.spots,fire:r.fire||null,dogs:[]});sfx.pop();toast(r.name,2200)}
+ P.x=HOME.w*8;P.y=HOME.h*16-14;P.dir=1}
+function enterHome(){enterRoom('kennel')}
+function kennelFill(){const W=HOME.w*16,H=HOME.h*16;
  HOME.dogs=Object.keys(S.dogs).filter(id=>BY[id]).map(id=>({id,b:BY[id],o:S.dogs[id],owned:true,shiny:!!S.dogs[id].shiny,v:S.dogs[id].v||1,x:24+R()*(W-48),y:58+R()*(H-84),st:'sit',t:R()*3,dir:R()<.5?1:-1,seed:R()*10,hop:0,joy:0}));
  sfx.pop();const n=HOME.dogs.length;toast(n?`${whose()} Kennel · ${n} pup${n>1?'s':''}. Tap one to pat it!`:`${whose()} Kennel. Catch a dog and it will live here!`,3600)}
 function exitHome(){G.scene='park';closePet();keysClear();setNear(null,null);P.x=G.ret[0];P.y=G.ret[1];P.dir=0;P.vx=P.vy=0;G.cam.fx=undefined;sfx.pop()}
@@ -822,7 +888,7 @@ function updClock(){const d=new Date(),h=hourNow(),per=period(h);let hh=HO!==nul
  if(per==='N'){disc(x,6,6,4,'#f4f0d0');disc(x,8,5,3,'#f6d79b');px(x,1,2,1,1,'#fff')}
  else{disc(x,6,6,3,per==='D'?'#f8c820':'#f08a2a');[[6,0],[6,11],[0,6],[11,6],[2,2],[10,2],[2,10],[10,10]].forEach(([a,b])=>px(x,a,b,1,1,'#f08a2a'))}
  if(G.per&&G.per!==per&&G.state==='world'){toast({M:'Good morning! The early dogs are out.',D:'The park is filling up for the day.',E:'Evening walkies. New dogs are arriving.',N:'Night falls. Something is howling in the woods…'}[per],4000);for(const dg of dogs)dg.life=R()*25}
- const dn=$('#dexN');if(dn)dn.textContent=count()+'/'+BR.length;
+ const dn=$('#dexN');if(dn){dn.textContent=count()+'/'+BR.length;$('#trN').textContent=S.treats}
  G.per=per}
 
 /* ================= encounters & photo ================= */
@@ -966,7 +1032,7 @@ cv.addEventListener('pointermove',e=>{const p=pos(e);if(G.state==='mini'&&MINI){
 const pup=e=>{if(e.pointerId!==ptr.id)return;const p=pos(e);if(!ptr.drag&&performance.now()-ptr.t<400)tapWorld(p.x,p.y);ptr.id=null};
 cv.addEventListener('pointerup',e=>{if(G.state==='mini'&&MINI)MINI.up();pup(e)});cv.addEventListener('pointercancel',e=>{if(e.pointerId===ptr.id)ptr.id=null});
 function tapWorld(x,y){
- if(G.scene==='home'){const wx=x-G.hox,wy=y-G.hoy;let best=null,bd=99;for(const d of HOME.dogs){const dd=Math.hypot(wx-d.x,wy-(d.y-10));if(dd<22&&dd<bd){bd=dd;best=d}}if(best)openPet(best,best.id);return}
+ if(G.scene==='home'){const wx=x-G.hox,wy=y-G.hoy;let best=null,bd=99;for(const d of HOME.dogs){const dd=Math.hypot(wx-d.x,wy-(d.y-10));if(dd<22&&dd<bd){bd=dd;best=d}}if(best)openPet(best,best.id);else for(const sp of HOME.spots)if(Math.hypot(wx-sp.x,wy-(sp.y-10))<24&&Math.hypot(P.x-sp.x,P.y-sp.y)<50){sfx.blip();sp.act();break}return}
  const wx=x+G.cam.x,wy=y+G.cam.y;
  for(const d of dogs)if(!d.leave&&Math.abs(wx-d.x)<14&&wy>d.y-30&&wy<d.y+6&&Math.hypot(d.x-P.x,d.y-P.y)<40)return startEncounter(d);
  if(BUD.on&&S.buddy&&Math.abs(wx-BUD.x)<14&&wy>BUD.y-30&&wy<BUD.y+6)openPet(BUD,S.buddy)}
@@ -986,10 +1052,10 @@ addEventListener('resize',resize);addEventListener('orientationchange',()=>setTi
 
 /* ================= update ================= */
 let saveT=0,fpD=0,fpS=1,FP=[];
-const dsc=v=>Math.max(.5,sn(.72*(v||1)));
+const dsc=(v,b)=>Math.max(.45,sn(.72*(v||1)*((b&&BS[bid(b)])||1)));
 const PARKOK=(x,y)=>!solidAt(x,y-2)&&reach[I(x>>4,y>>4)]===1;
-const HOME={w:18,h:12,ground:null,dogs:[]};
-HOME.blk=(x,y)=>{const W=HOME.w*16,H=HOME.h*16;return x<9||x>W-9||y<42||(y>H-5&&(Math.abs(x-W/2)>8||y>H+3))};
+const HOME={w:18,h:12,ground:null,dogs:[],npcs:[],spots:[],sol:[],fore:[],win:[40,216],fire:null};
+HOME.blk=(x,y)=>{const W=HOME.w*16,H=HOME.h*16;return x<9||x>W-9||y<42||(y>H-5&&(Math.abs(x-W/2)>8||y>H+3))||HOME.sol.some(r=>x>r[0]-4&&x<r[0]+r[2]+4&&y>r[1]&&y<r[1]+r[3]+5)};
 HOME.ok=(x,y)=>x>14&&x<HOME.w*16-14&&y>50&&y<HOME.h*16-12;
 function movePlayer(dt,blk){let mx=0,my=0;
  if(keys.arrowleft||keys.a)mx--;if(keys.arrowright||keys.d)mx++;if(keys.arrowup||keys.w)my--;if(keys.arrowdown||keys.s)my++;
@@ -1008,6 +1074,7 @@ function updateHome(dt){const W=HOME.w*16,H=HOME.h*16;movePlayer(dt,HOME.blk);
  if(P.y>H-4&&Math.abs(P.x-W/2)<10&&P.my>.3)return exitHome();
  let np=null,nd=28;for(const d of HOME.dogs){emoTick(d,dt);const dx=P.x-d.x,dy=P.y-d.y,dist=Math.hypot(dx,dy);
   if(dist<26||(G.pet&&G.pet.e===d)){d.st='sit';d.near=true;d.dir=dx>0?1:-1;if(dist<nd){nd=dist;np=d}}else{d.near=false;wander(d,dt,HOME.ok,d.b.sz===0?26:20)}}
+ if(!np)for(const sp of HOME.spots)if(Math.hypot(P.x-sp.x,P.y-sp.y)<(sp.r||30)){np=sp;break}
  setNear(null,np);if(G.pet&&Math.hypot(G.pet.e.x-P.x,G.pet.e.y-P.y)>70)closePet()}
 function update(dt){G.time+=dt;G.dt=dt;
  if(G.state==='mini'){miniUpdate(dt);return}
@@ -1019,7 +1086,7 @@ function update(dt){G.time+=dt;G.dt=dt;
  const spd=movePlayer(dt,blocked);
  if(P.moving){fpD+=spd*dt;if(fpD>7){fpD=0;fpS=-fpS;const t=map[I(P.x>>4,P.y>>4)],life=[2.2,9,0,1,3,2.6,1.4][t];if(life)FP.push({x:P.x-P.vy/spd*2.5*fpS,y:P.y-1+P.vx/spd*1.5*fpS,t:life,l:life,k:t})}}
  for(const f of FP)f.t-=dt;if(FP.length&&(FP[0].t<=0||FP.length>200))FP=FP.filter(f=>f.t>0).slice(-200);
- if(P.my<-.3&&P.y<HOUSE.y+10&&Math.abs(P.x-HOUSE.x)<8)return enterHome();
+ if(P.my<-.3)for(const b of BLD)if(P.y<b.y+10&&P.y>b.y-6&&Math.abs(P.x-b.x)<8)return enterRoom(b.id);
  const z=zoneAt(P.x>>4,P.y>>4);if(z!==G.zone){if(G.zone)toast('~ '+ZNAME[z].replace(/^the /,'The ')+' ~',1800);G.zone=z}
  let near=null,nd=30;
  for(const d of dogs){d.life-=dt;d.hop=Math.max(0,d.hop-dt);const dx=P.x-d.x,dy=P.y-d.y,dist=Math.hypot(dx,dy),on=Math.abs(dx)<vw/2+20&&Math.abs(dy)<vh/2+30;
@@ -1086,7 +1153,7 @@ function iris(x,y,k){const r=Math.max(vw,vh)*k;g.fillStyle='#000';g.beginPath();
 function dogSpr(e){const b=e.shiny?SHV(e.b):e.b,o=e.owned?e.o:null,act=e.near||e.happy>0||e.joy>0;
  if(e.st==='walk'||e.st==='dig')return{c:dogSide(b,1+(((G.time*(e.fast||e.st==='dig'?14:8)+(e.seed||0))|0)%4),o,e.fast||e.owned?1:0),flip:e.dir<0};
  const tt=G.time+(e.seed||0);if(e.sleep&&!act)return{c:dogFront(b,2,o,false),flip:false};return{c:dogFront(b,e.joy>0?3:act?(G.time*6&1):(tt%4<.15?2:tt%3<.3?1:0),o,!!(act||e.owned)),flip:false}}
-function drawDogEnt(e,x,y){const sc=dsc(e.v),tr=e.trick;let s=dogSpr(e),hop=e.hop>0?Math.abs(Math.sin(e.hop*12))*4:0;
+function drawDogEnt(e,x,y){const sc=dsc(e.v,e.b),tr=e.trick;let s=dogSpr(e),hop=e.hop>0?Math.abs(Math.sin(e.hop*12))*4:0;
  if(tr){const q=1-tr.t/tr.d,b=e.shiny?SHV(e.b):e.b,o=e.owned?e.o:null;
   if(tr.k==='spin'){const f=(q*8|0)%4;s=f%2?{c:dogSide(b,1,o,1),flip:f===3}:{c:dogFront(b,f?3:0,o,true),flip:false}}
   else if(tr.k==='jump'){hop=Math.sin(q*3.14)*16;s={c:dogFront(b,3,o,true),flip:false}}
@@ -1106,7 +1173,7 @@ function tornado(x,y){const t=G.time;px(g,sn(x-9),sn(y-1),18,3,'rgba(0,0,0,.2)')
  for(let i=0;i<8;i++){const a=t*7+i*.8,r=6+i*2.2;px(g,sn(x+Math.cos(a)*r),sn(y-4-i*4+Math.sin(a*1.3)*2),2,2,['#7a4630','#f8f2ea','#c8824a','#4aa63c'][i%4])}
  for(let i=0;i<5;i++){const a=t*11+i*1.3;px(g,sn(x+Math.cos(a)*11),sn(y-1+Math.sin(a)*2),2,1,'#d8c8a2')}}
 function drawJoy(){if(ptr.id!==null&&ptr.drag&&G.state==='world'){g.strokeStyle='rgba(255,255,255,.5)';g.lineWidth=1;g.beginPath();g.arc(ptr.sx,ptr.sy,14,0,6.283);g.stroke();g.fillStyle='rgba(255,255,255,.55)';const dx=ptr.x-ptr.sx,dy=ptr.y-ptr.sy,m=Math.max(1,Math.hypot(dx,dy)),k=Math.min(14,m)/m;g.beginPath();g.arc(ptr.sx+dx*k,ptr.sy+dy*k,5,0,6.283);g.fill()}}
-const headTop=e=>([27,32,37][e.b.sz]+(e.b.tall?3:0))*dsc(e.v);
+const headTop=e=>([27,32,37][e.b.sz]+(e.b.tall?3:0))*dsc(e.v,e.b);
 function buildHome(){const W=HOME.w*16,H=HOME.h*16,c=mk(W,H),x=c.x,hs=S.home||(S.home={wall:0,floor:0,rug:0,it:[]}),F=DECO.floor[hs.floor][2],WL=DECO.wall[hs.wall][2],RG=DECO.rug[hs.rug][2],it=hs.it;
  for(let ty=0;ty<HOME.h;ty++)for(let tx=0;tx<HOME.w;tx++){const X=tx*16,Y=ty*16;px(x,X,Y,16,16,(tx+ty)%2?F[0]:F[1]);px(x,X,Y+15,16,1,F[2]);px(x,X+((ty%2)*8+3),Y,1,15,F[3])}
  px(x,0,0,W,30,WL[0]);for(let i=0;i<W;i+=12)px(x,i,0,1,22,WL[1]);px(x,0,22,W,8,WL[2]);px(x,0,22,W,1,'#d99a52');px(x,0,30,W,3,'#7a4a24');px(x,0,33,W,3,'rgba(0,0,0,.16)');
@@ -1125,21 +1192,24 @@ function buildHome(){const W=HOME.w*16,H=HOME.h*16,c=mk(W,H),x=c.x,hs=S.home||(S
  if(it.includes('toybox')){const bx=W-34,by=H-70;px(x,bx,by,24,14,'#3a8ad8');px(x,bx,by,24,3,'#5aaaf0');px(x,bx+10,by+5,4,3,'#f4d03f');disc(x,bx+5,by-2,3,'#e84a4a');disc(x,bx+13,by-3,3,'#c8e63a');px(x,bx+17,by-4,5,3,'#f8eedc')}
  if(it.includes('lamp')){const lx=W-14,ly=46;x.fillStyle='rgba(255,230,150,.16)';x.beginPath();x.arc(lx+1,ly+10,36,0,7);x.fill();px(x,lx,ly,2,26,'#3a3f4a');px(x,lx-3,ly+26,8,2,'#3a3f4a');px(x,lx-5,ly-8,12,9,'#ffe9a0');px(x,lx-4,ly-9,10,1,'#f2c230')}
  if(it.includes('ballpit')){const cx2=W-96,cy2=H-36;ell(x,cx2,cy2,26,13,'#3a6fd8');ell(x,cx2,cy2-1,22,10,'#2a4a98');const r=rng(4);for(let i=0;i<28;i++){const a=r()*6.28,d=r();disc(x,cx2+Math.cos(a)*d*19|0,cy2-1+Math.sin(a)*d*8|0,2,['#e84a4a','#f2c230','#3aa655','#e86aa8','#3ac2c2'][i%5])}}
- HOME.ground=c}
+ HOME.kg=c;if(G.room==='kennel'||!G.room)HOME.ground=c}
 function renderHome(){const W=HOME.w*16,H=HOME.h*16;px(g,0,0,vw,vh,'#120a06');
  const ox=sn(vw>=W?(vw-W)/2:-clamp(P.x-vw/2,0,W-vw)),oy=sn(vh>=H?(vh-H)/2:-clamp(P.y-12-vh/2,0,H-vh));G.hox=ox;G.hoy=oy;
  g.drawImage(HOME.ground,ox,oy);const LV=lightVals();
- if(LV.night>.4)for(const wx of[40,W-72]){px(g,ox+wx,oy+4,32,16,'rgba(14,20,66,.82)');px(g,ox+wx+15,oy+4,2,16,'#f4ead8');px(g,ox+wx,oy+11,32,2,'#f4ead8')}
- const L=[P,...HOME.dogs].sort((a,b)=>a.y-b.y);
- for(const o of L){shadow(o.x+ox,o.y+oy,o===P?6:(o.b.sz*2+6)*dsc(o.v))}
- for(const o of L){const x=o.x+ox,y=o.y+oy;if(o===P)drawPlayer(x,y);else drawDogEnt(o,x,y)}
+ if(LV.night>.4)for(const wx of HOME.win){px(g,ox+wx,oy+4,32,16,'rgba(14,20,66,.82)');px(g,ox+wx+15,oy+4,2,16,'#f4ead8');px(g,ox+wx,oy+11,32,2,'#f4ead8')}
+ const L=[P,...HOME.dogs,...HOME.npcs].sort((a,b)=>a.y-b.y);
+ for(const o of L){shadow(o.x+ox,o.y+oy,o===P||o.npc?6:(o.b.sz*2+6)*dsc(o.v,o.b))}
+ for(const o of L){const x=o.x+ox,y=o.y+oy;if(o===P)drawPlayer(x,y);else if(o.npc)spr(o.c,x,y,1);else drawDogEnt(o,x,y)}
+ for(const r of HOME.fore)if(P.y<r[1]+r[3])g.drawImage(HOME.ground,r[0],r[1],r[2],r[3],ox+r[0],oy+r[1],r[2],r[3]);
+ if(HOME.fire){const t=G.time*9|0,fx=ox+HOME.fire[0],fy=oy+HOME.fire[1];for(let i=0;i<9;i++)px(g,fx-7+((t+i*3)%14),fy-3-((t*2+i*5)%12),2,2,i%3===0?'#fff0a0':i%2?'#ffd84a':'#ff8a2a');g.globalCompositeOperation='lighter';g.globalAlpha=.5+Math.sin(G.time*9)*.08;g.drawImage(SPR.glow,fx-60,fy-50,120,120);g.globalAlpha=1;g.globalCompositeOperation='source-over'}
  g.globalCompositeOperation='multiply';g.fillStyle=LV.night>.4?'rgb(255,206,150)':'rgb(255,244,224)';g.fillRect(ox,oy,W,H);g.globalCompositeOperation='source-over';
  if(LV.night>.4){g.globalCompositeOperation='lighter';g.globalAlpha=.5;g.drawImage(SPR.glow,ox+W/2-110,oy+H/2-100,220,220);g.globalAlpha=1;g.globalCompositeOperation='source-over'}
  vignette(.3+LV.night*.2);
+ if(G.nearPet&&G.nearPet.act)g.drawImage(SPR.bang,sn(G.nearPet.x+ox-5),sn(G.nearPet.y+oy-(G.nearPet.h||36)+Math.sin(G.time*6)*1.5));
  for(const d of HOME.dogs){const x=d.x+ox,y=d.y+oy;if(d.emo)emoB(d,x,y-headTop(d)-1);else if(d.near)txt(S.dogs[d.id]?S.dogs[d.id].name:'',x,y-headTop(d)-5,5,'#fff')}
  drawJoy()}
 const AMB={ducks:[0,1,2,3].map(i=>({a:i*1.7,i})),bf:[]};
-const OCC={tent:[17,24],cart:[14,30],swing:[16,30],tree:[15,42],house:[44,82],umbrella:[15,36],statue:[10,34],fountain:[26,46],lamp:[5,30]},CASTK={cart:1,tent:1,hay:1,surf:1,swing:1,tree:1,bush:1,lamp:1,house:1,umbrella:1,statue:1,sign:1,bin:1,stump:1,table:1,rock:1};
+const OCC={tent:[17,24],cart:[14,30],swing:[16,30],tree:[15,42],house:[44,82],shop:[44,82],cafe:[44,82],hall:[44,82],cabin:[44,82],umbrella:[15,36],statue:[10,34],fountain:[26,46],lamp:[5,30]},CASTK={cart:1,tent:1,hay:1,surf:1,swing:1,tree:1,bush:1,lamp:1,house:1,shop:1,cafe:1,hall:1,cabin:1,umbrella:1,statue:1,sign:1,bin:1,stump:1,table:1,rock:1};
 const OSPR=o=>o.k==='tree'?SPR.tree[o.v]:SPR[o.k];
 function render(){
  g.setTransform(K,0,0,K,0,0);g.imageSmoothingEnabled=false;
@@ -1158,7 +1228,7 @@ function render(){
  for(const o of objs){if(o.y<cam.y-6)continue;if(o.y>cam.y+vh+90)break;if(o.x>cam.x-50&&o.x<cam.x+vw+50)L.push(o)}
  for(const d of dogs)if(Math.abs(d.x-P.x)<vw+40&&Math.abs(d.y-P.y)<vh+40)L.push(d);
  L.push(P);if(BUD.on)L.push(BUD);if(Math.abs(BAL.x-P.x)<vw+40&&Math.abs(BAL.y-P.y)<vh+40)L.push(BAL);
- for(const o of L){const x=o.x-cam.x,y=o.y-cam.y;if(o===P){shadow(x,y,5,.14);cast(playerSpr(P.dir,0),x,y,1,LV)}else if(o.b){if(!o.mode){shadow(x,y,Math.round((o.b.sz+4)*dsc(o.v)),.14);cast(dogSpr(o).c,x,y,dsc(o.v),LV)}}else if(CASTK[o.k])cast(OSPR(o),x,y,1,LV)}
+ for(const o of L){const x=o.x-cam.x,y=o.y-cam.y;if(o===P){shadow(x,y,5,.14);cast(playerSpr(P.dir,0),x,y,1,LV)}else if(o.b){if(!o.mode){shadow(x,y,Math.round((o.b.sz+4)*dsc(o.v,o.b)),.14);cast(dogSpr(o).c,x,y,dsc(o.v,o.b),LV)}}else if(CASTK[o.k])cast(OSPR(o),x,y,1,LV)}
  L.sort((a,b)=>a.y-b.y);
  for(const o of L){const x=o.x-cam.x,y=o.y-cam.y;
   if(o===P)drawPlayer(x,y);
@@ -1170,7 +1240,7 @@ function render(){
  if(LV.night<.5){if(!AMB.bf.length){const r=rng(5);for(let i=0;i<26;i++)AMB.bf.push({x:(i<18?4+r()*34:40+r()*50)*16,y:(i<18?58+r()*32:30+r()*60)*16,p:r()*6,c:['#fff','#f2c230','#f08ab8','#7ab0ff'][i%4]})}
   for(const b of AMB.bf){const X=b.x+Math.sin(G.time*.7+b.p)*22+Math.sin(G.time*2.1+b.p)*5-cam.x,Y=b.y+Math.cos(G.time*.9+b.p*2)*14-cam.y;if(X<-4||Y<-4||X>vw+4||Y>vh+4)continue;const f=(G.time*9+b.p)&1;px(g,sn(X)-(f?2:1),sn(Y),f?2:1,2,b.c);px(g,sn(X)+1,sn(Y),f?2:1,2,b.c);px(g,sn(X),sn(Y),1,2,'#3a2a20')}}
  if(LV.night>.01){g.globalCompositeOperation='multiply';g.fillStyle=`rgb(${LV.tc[0]},${LV.tc[1]},${LV.tc[2]})`;g.fillRect(0,0,vw,vh);g.globalCompositeOperation='source-over'}
- if(LV.night>.2){const hx=HOUSE.x-44-cam.x,hy=HOUSE.y-84-cam.y;g.globalAlpha=LV.night*.9;for(const wx of[14,60])px(g,hx+wx,hy+50,14,13,'#ffdc7a');px(g,hx+40,hy+54,9,8,'#ffdc7a');g.globalAlpha=1;
+ if(LV.night>.2){const hx=HOUSE.x-44-cam.x,hy=HOUSE.y-84-cam.y;g.globalAlpha=LV.night*.9;for(const b of BLD){const bx=b.x-44-cam.x,by=b.y-84-cam.y;if(bx<-90||bx>vw||by<-90||by>vh)continue;for(const wx of[14,60])px(g,bx+wx,by+50,14,13,'#ffdc7a');px(g,bx+40,by+54,9,8,'#ffdc7a')}g.globalAlpha=1;
   g.globalCompositeOperation='lighter';g.globalAlpha=LV.night;
   for(const[lx,ly]of lamps){const x=lx-cam.x,y=ly-cam.y;if(x<-50||y<-50||x>vw+50||y>vh+50)continue;g.drawImage(SPR.glow,sn(x-48),sn(y-48))}
   g.drawImage(SPR.glow,sn(hx-4),sn(hy+10));g.drawImage(SPR.glow,sn(hx-4),sn(hy+10));
@@ -1195,14 +1265,14 @@ function render(){
 /* ================= boot ================= */
 let last=0;
 function frame(t){const dt=Math.min(.05,(t-last)/1000||0);last=t;update(dt);render();requestAnimationFrame(frame)}
-function boot(){load();mkSprites();genWorld();buildHome();resize();ACTI=[im(SPR.cam,3),im(SPR.paw,4)];$('#dexB').innerHTML=im(SPR.iBook,2)+'<span id="dexN"></span>';
+function boot(){load();mkSprites();genWorld();buildHome();resize();ACTI=[im(SPR.cam,3),im(SPR.bang,3)];$('#dexB').innerHTML=im(SPR.iBook,2)+'<span id="dexN"></span>'+im(SPR.bone,1.5)+'<span id="trN"></span>';
  if(S.pos&&!blocked(S.pos[0],S.pos[1])){P.x=S.pos[0];P.y=S.pos[1]}
  for(let i=0;i<44;i++)dogs.push(spawnDog({},false));baliSpawn();
  updClock();setInterval(updClock,1000);titleInit();requestAnimationFrame(frame);
  idbOpen().then(idbGet).then(j=>{if(j){try{const d=JSON.parse(j);if(d&&d.v===1&&(d.ts||0)>(S.ts||0)&&G.state==='title'){Object.assign(S,d);PS={};buildHome();if(S.pos&&!blocked(S.pos[0],S.pos[1])){P.x=S.pos[0];P.y=S.pos[1]}titleInit()}}catch(e){}}
   if(navigator.storage&&navigator.storage.persist)navigator.storage.persist().catch(()=>{})});
  if('serviceWorker'in navigator&&location.protocol==='https:')navigator.serviceWorker.register('sw.js').catch(()=>{});
- window.__pp={resetPS(){PS={}},BAL,BALI,HOME,BUD,enterHome,exitHome,openPet,G,P,get S(){return S},dogs,BR,BY,startEncounter,snap,startMini,dogFront,dogSide,playerSpr,SPR,get MINI(){return MINI},menu,dex,zoneAt,spr,save}}
+ window.__pp={ROOMS,BLD,enterRoom,resetPS(){PS={}},BAL,BALI,HOME,BUD,enterHome,exitHome,openPet,G,P,get S(){return S},dogs,BR,BY,startEncounter,snap,startMini,dogFront,dogSide,playerSpr,SPR,get MINI(){return MINI},menu,dex,zoneAt,spr,save}}
 boot();
 })();
 </script>
